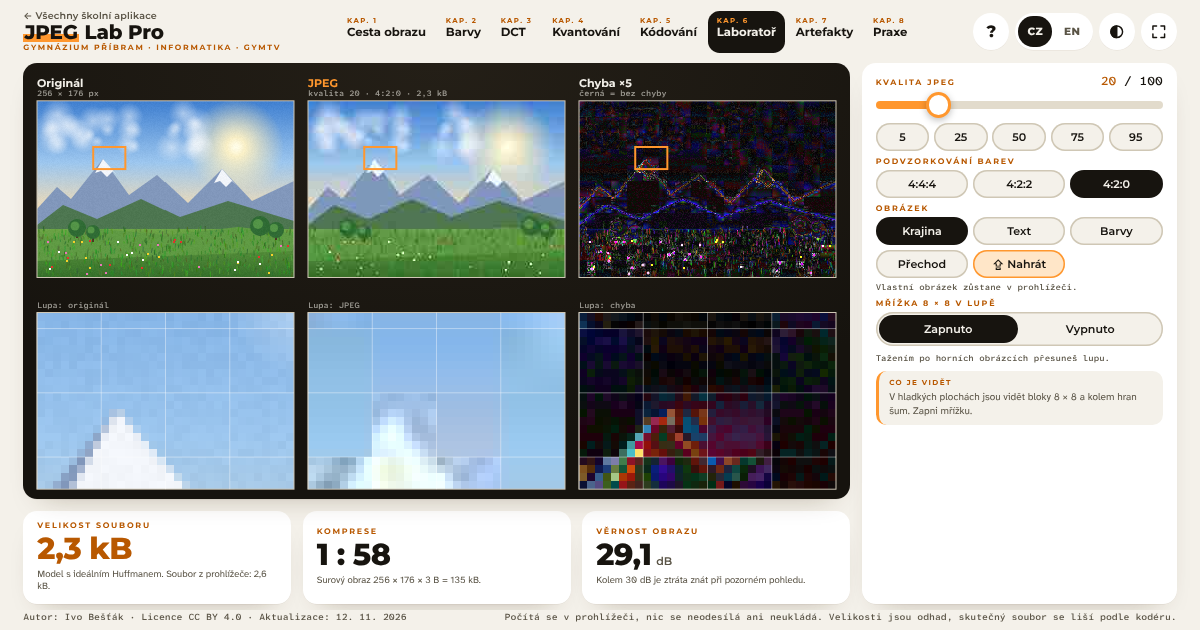
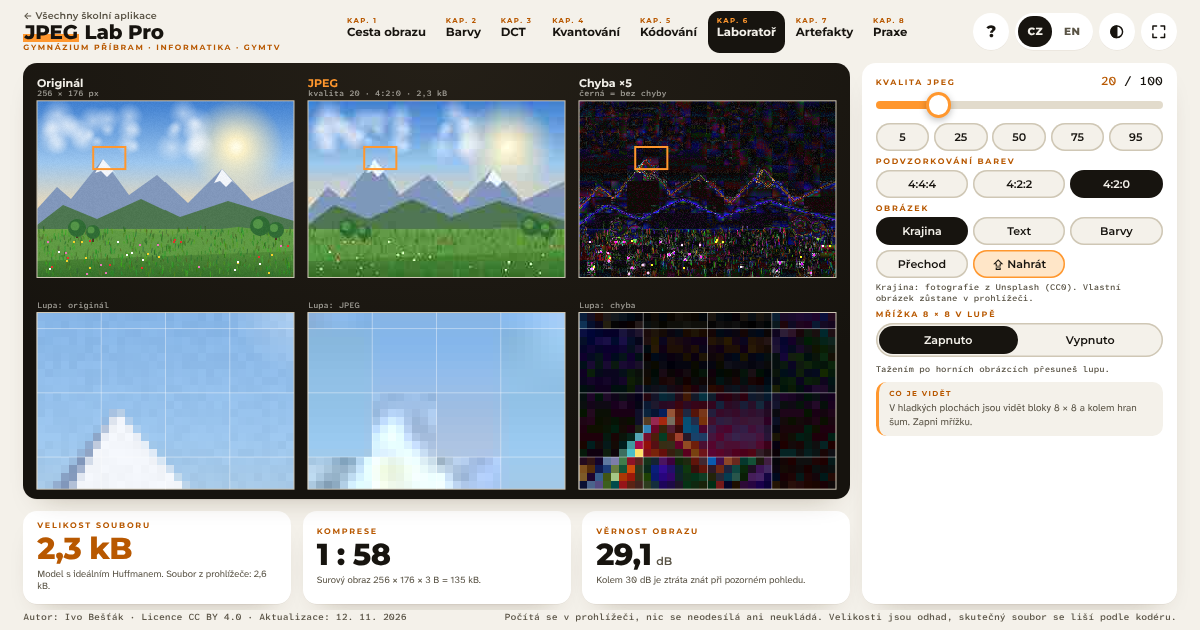
JPEG Lab Pro: skutečná fotografie krajiny místo kresleného obrázku
Claude-Session: https://claude.ai/code/session_01HrWVDHYjE88Tv24upptLXz

Changed region(s): [[0.7092, 0.4524, 0.9867, 0.6937]]

diff --git a/jpeg-lab-pro/index.html b/jpeg-lab-pro/index.html
@@ -210,7 +210,7 @@ const MAPS={},IMAP={};
 const S={tab:0,
  q:50,sub:'s420',img:'foto',
  st:4,mp:12,                       // 1 Cesta obrazu
- blk:'img',bx:8,by:7,nc:10,qt:'y',   // 3–5 blok
+ blk:'img',bx:13,by:9,nc:10,qt:'y',   // 3–5 blok
  grid:false,rx:104,ry:60,rx7:20,ry7:6,            // 6 Laboratoř
  art:'blok',img7:'foto',q7:8,sub7:'s444',gen:1,shift:false, // 7 Artefakty
  fmt:'avif'};                        // 8 Praxe
@@ -357,7 +357,13 @@ function genPrechod(){
  const r=g.createRadialGradient(128,142,4,128,142,70);r.addColorStop(0,'#fff6d8');r.addColorStop(1,'#2a3a5a');g.fillStyle=r;g.fillRect(0,108,IW,68);
  finish('prechod',c);
 }
-const GEN={foto:genFoto,text:()=>{genText();if(document.fonts&&!document.fonts.check('800 58px Montserrat'))document.fonts.load('800 58px Montserrat').then(()=>{delete IM.text;MEMO.clear();refresh()})},barvy:genBarvy,prechod:genPrechod};
+let fotoReq=0;
+function realFoto(){if(fotoReq)return;fotoReq=1;const im=new Image();
+ im.onload=()=>{try{const c=cvs(IW,IH,1),g=c.getContext('2d');g.imageSmoothingQuality='high';
+  const sw=im.naturalHeight*IW/IH,sx=(im.naturalWidth-sw)/2;g.drawImage(im,sx,0,sw,im.naturalHeight,0,0,IW,IH);
+  finish('foto',c);MEMO.clear();refresh()}catch(e){}};
+ im.src='foto-krajina.jpg'}
+const GEN={foto:()=>{genFoto();realFoto()},text:()=>{genText();if(document.fonts&&!document.fonts.check('800 58px Montserrat'))document.fonts.load('800 58px Montserrat').then(()=>{delete IM.text;MEMO.clear();refresh()})},barvy:genBarvy,prechod:genPrechod};
 function img(id){if(!IM[id]&&GEN[id])GEN[id]();return IM[id]||img('foto')}
 const imgCv=id=>{const im=img(id);const c=cvs(im.w,im.h);c.getContext('2d').putImageData(new ImageData(im.d,im.w,im.h),0,0);return c};
 async function upload(file){
@@ -438,7 +444,7 @@ ACT.upl=()=>$('#fUp').click();
 /* --- pomocné prvky rozhraní --- */
 const IMGL=()=>[['foto',tx('Krajina','Landscape')],['text',tx('Text','Text')],['barvy',tx('Barvy','Colours')],['prechod',tx('Přechod','Gradient')]];
 OUT.imgc=()=>{let a=IMGL();if(IM.vlastni)a=a.concat([['vlastni',tx('Vlastní','Own')]]);return a.map(([v,l])=>`<button class="chip${S.img===v?' on':''}" data-k="img" data-v="${v}">${l}</button>`).join('')+`<button class="chip up" data-act="upl">⇪ ${tx('Nahrát','Upload')}</button>`};
-const imgSel=()=>`<div class="ctl"><div class="hd"><span class="lbl">${tx('Obrázek','Picture')}</span></div><div class="chips g3" data-o="imgc"></div><span class="hint">${tx('Vlastní obrázek zůstane v prohlížeči.','Your picture stays in the browser.')}</span></div>`;
+const imgSel=()=>`<div class="ctl"><div class="hd"><span class="lbl">${tx('Obrázek','Picture')}</span></div><div class="chips g3" data-o="imgc"></div><span class="hint">${tx('Krajina: fotografie z Unsplash (CC0). Vlastní obrázek zůstane v prohlížeči.','Landscape: photo from Unsplash (CC0). Your picture stays in the browser.')}</span></div>`;
 const subSel=k=>`<div class="ctl"><div class="hd"><span class="lbl">${tx('Podvzorkování barev','Chroma subsampling')}</span></div><div class="chips g3">${Object.keys(SUB).map(v=>`<button class="chip" data-k="${k}" data-v="${v}">${SUB[v].n}</button>`).join('')}</div></div>`;
 const qSel=(k,chips=true)=>`<div class="ctl"><div class="hd"><span class="lbl">${tx('Kvalita JPEG','JPEG quality')}</span><span class="val" data-o="qv_${k}"></span></div><input type="range" data-k="${k}" min="1" max="100" step="1">${chips?`<div class="chips g5">${[5,25,50,75,95].map(v=>`<button class="chip" data-k="${k}" data-v="${v}">${v}</button>`).join('')}</div>`:''}</div>`;
 OUT.qv_q=()=>`<b>${S.q}</b> / 100`;OUT.qv_q7=()=>`<b>${S.q7}</b> / 100`;
